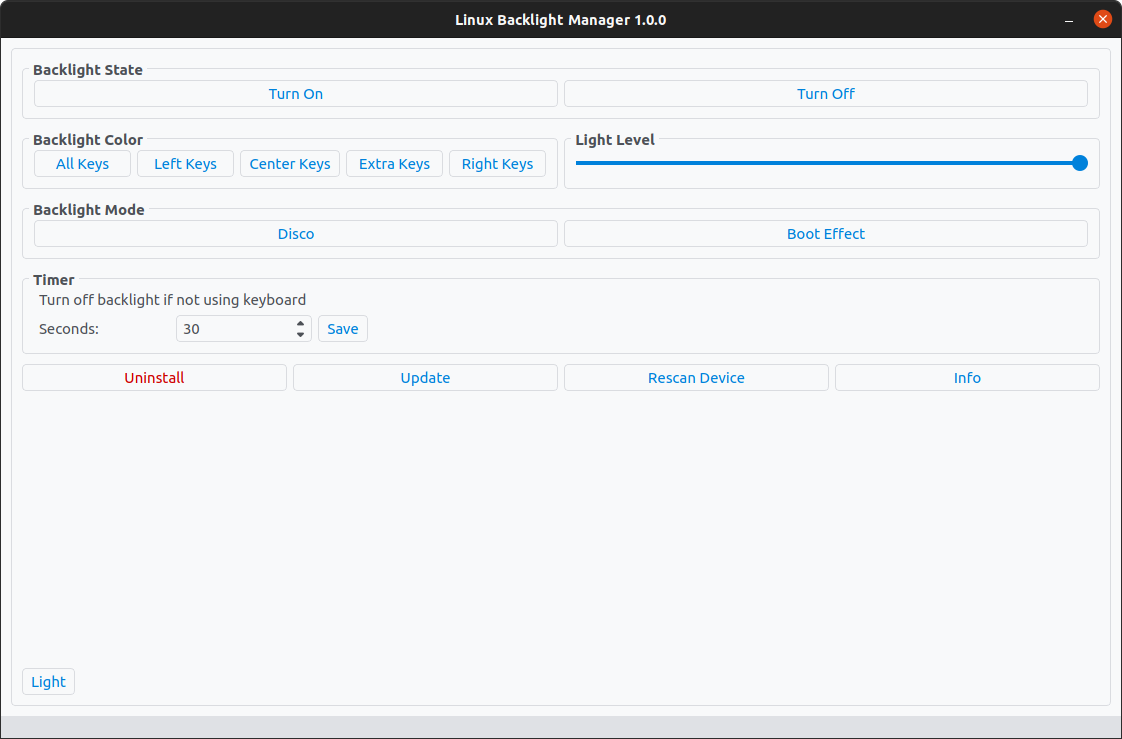
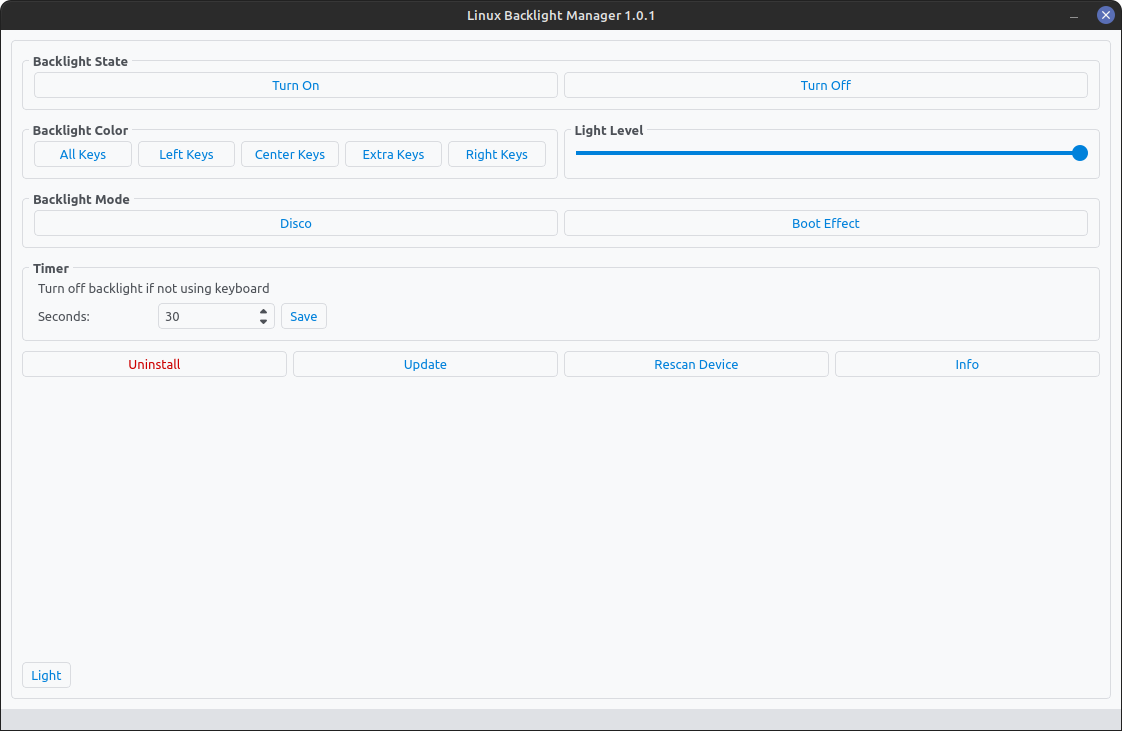
version 1.0.1 fix uninstall edit installer

diff --git a/installer.py b/installer.py
@@ -3,7 +3,7 @@ import shutil
 import os
 import sys
 
-APP_VERSION = '1.0.0'
+APP_VERSION = '1.0.1'
 
 if os.geteuid() != 0:
     print("Root Access required, run as `root` user or use `sudo`.")
@@ -11,7 +11,11 @@ if os.geteuid() != 0:
 
 
 print('Start downloading tuxedo keyboard.')
-filename = wget.download("https://github.com/tuxedocomputers/tuxedo-keyboard/archive/refs/heads/master.zip")
+try:
+    filename = wget.download("https://github.com/tuxedocomputers/tuxedo-keyboard/archive/refs/heads/master.zip")
+except Exception:
+    print("Error in download! check your internet connection.")
+    sys.exit()
 
 print('\nStart unpack tuxedo keyboard.')
 shutil.unpack_archive(filename)
@@ -20,12 +24,12 @@ os.remove(filename)
 
 print('Start Compile and install tuxedo keyboard.')
 os.chdir("tuxedo-keyboard-master")
-os.system("make clean")
-os.system("make")
-os.system("make clean")
-os.system("make dkmsinstall")
+os.system("make clean > /dev/null")
+os.system("make > /dev/null")
+os.system("make clean > /dev/null")
+os.system("make dkmsinstall > /dev/null")
 os.system("echo tuxedo_keyboard >> /etc/modules")
-os.system('echo "options tuxedo_keyboard mode=0 color_left=0xFF0000 color_center=0x00FF00 color_right=0x0000FF" > /etc/modprobe.d/tuxedo_keyboard.conf')
+os.system('echo "options tuxedo_keyboard mode=0 color_left=0xFFFFFF color_center=0xFFFFFF color_right=0xFFFFFF" > /etc/modprobe.d/tuxedo_keyboard.conf')
 
 os.chdir("..")
 shutil.rmtree("tuxedo-keyboard-master")

diff --git a/main.py b/main.py
@@ -1,3 +1,4 @@
+from math import fabs
 from PyQt5 import QtCore, QtGui, QtWidgets
 import qdarktheme
 import sys
@@ -12,7 +13,7 @@ import re
 import webbrowser
 
 
-APP_VERSION = '1.0.0'
+APP_VERSION = '1.0.1'
 
 
 def get_file(name):
@@ -456,7 +457,8 @@ class Ui_MainWindow(object):
         quiz = quiz.exec()
 
         if quiz == QtWidgets.QMessageBox.Yes:
-            src =  os.popen("ls /usr/src/ | grep tuxedo").read()
+            lbm.state(False)
+            src =  os.popen("ls /usr/src/ | grep tuxedo").read().strip()
             version = src.replace("tuxedo-keyboard-", "")
             src = src.replace("-"+version, "")
             cmd = f"sleep 2;dkms remove -m {src} -v {version} --all;rm -rf /usr/src/{src}-{version};rm /etc/modprobe.d/tuxedo_keyboard.conf;"\
